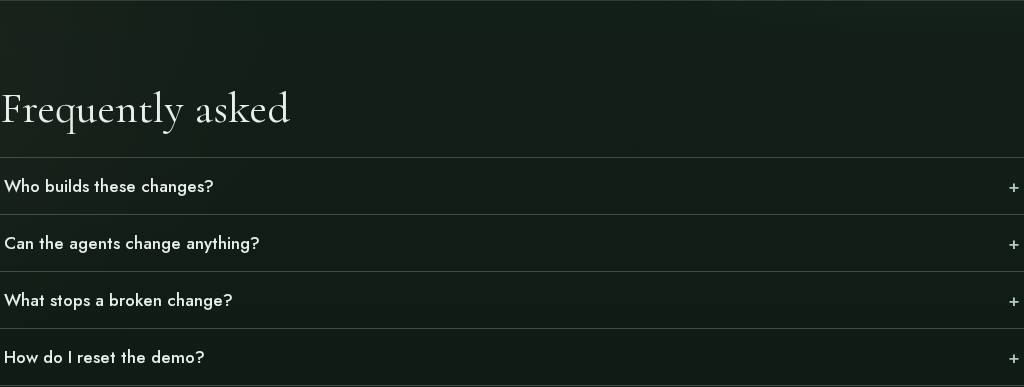
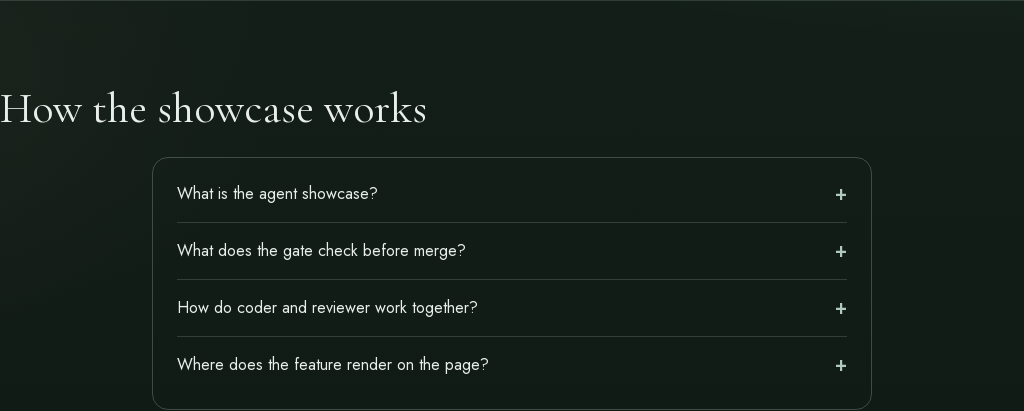
Refresh faq-accordion references from production; visual FAILs block (#314)
* Refresh faq-accordion chromium references from production with provenance; document that visual FAILs block

* Use role words instead of agent names in README and PR template

* Resolve README merge conflict: visual FAIL blocks, missing reference skipped; role words instead of agent names

* Remove stale visual references (no known-good capture yet; features skip the visual compare)

diff --git a/scripts/v2/check-feature.js b/scripts/v2/check-feature.js
@@ -1,5 +1,5 @@
 #!/usr/bin/env node
-// Showcase v2 feature check + visual gate (Rowan on the preview, Cedar on production).
+// Showcase v2 feature check + visual gate (the reviewer on the preview, QA on production).
 // usage: node check-feature.js <url> <slug> <who> <outdir> [--engine chromium|webkit] [--widths 1280,390] [--update-refs] [--threshold 0.01]
 // Needs only `playwright` (run from a folder where it is installed, or set NODE_PATH). Exit 0 = PASS.
 const path = require("path"), fs = require("fs");
@@ -105,7 +105,7 @@ if (args[0] === "--compare") { // node check-feature.js --compare a.png b.png : 
     ok(eb.h2, "feature has an <h2> heading");
     ok(eb.h2 && eb.text.length === 0, `no eyebrow above the heading${eb.text.length ? ` (found "${eb.text.join(" | ")}"; put any "Example data" note in a plain line under the content)` : ""}`);
     await spec.check({ page, sec, ok, w, engine, log, phase: "before-shot" });
-    if (spec.art) { // design-led: Hazel's artwork must load (or show its fallback) and fit; its pixels are masked from the diff
+    if (spec.art) { // design-led: the designer's artwork must load (or show its fallback) and fit; its pixels are masked from the diff
       const arts = sec.locator("[data-art]"), n = await arts.count(), sb = await sec.boundingBox();
       let img = 0, fb = 0, broken = 0, outside = 0;
       for (let k = 0; k < n; k++) {
@@ -136,7 +136,7 @@ if (args[0] === "--compare") { // node check-feature.js --compare a.png b.png : 
     const name = `${slug}-${engine}-${w}.png`;
     fs.mkdirSync(outdir, { recursive: true });
     // The saved screenshot is the real page (art visible). Only the pixel-diff copy masks the art; saving the masked copy made
-    // reports show a magenta square where Hazel's avatar really renders (Quote card, 10/13).
+    // reports show a magenta square where the designer's avatar really renders (Quote card, 10/13).
     fs.writeFileSync(path.join(outdir, name), spec.art ? await sec.screenshot({ animations: "disabled" }) : shot);
     const ref = path.join(REFS, name);
     if (spec.noRef) log(`visual: typed request, no reference to diff (one-off content; layout, errors and network checks still apply)`);

diff --git a/scripts/v2/gate.js b/scripts/v2/gate.js
@@ -43,7 +43,7 @@ out.files = files;
 // Messages: messages/en-US.json is the base locale (never changed by a run). The spanish-translation run adds exactly
 // messages/es-ES.json: flat JSON, string values only, exactly the same keys as en-US.json.
 const LOCALE_FILE = "messages/es-ES.json", BASE_LOCALE_FILE = "messages/en-US.json";
-const dir = `app/lab/${slug}/`, artDir = `public/lab/${slug}/`; // artDir: Hazel's artwork (SVG only, checked below)
+const dir = `app/lab/${slug}/`, artDir = `public/lab/${slug}/`; // artDir: the designer's artwork (SVG only, checked below)
 // Runs branch from origin/base (main with the lab slot empty), so a PR to main also deletes the previous feature.
 // Pure deletions of another menu feature's folder or artwork are allowed and don't count toward the size cap.
 const deleted = new Set(git("diff", "--name-only", "--diff-filter=D", range).split("\n").filter(Boolean));
@@ -58,7 +58,7 @@ for (const f of files) {
   if (keepFile(f)) { fail("allowlist", `the request said to keep the current section: ${f} was ${deleted.has(f) ? "deleted" : "changed"}`); continue; }
   if (f === "app/page.tsx" || f.startsWith(dir) || oldFeature(f)) continue;
   if (f === "app/lab/current.json") continue; // checked below
-  if (f === LOCALE_FILE && slug === "spanish-translation") continue; // Alder's es-ES messages, checked below
+  if (f === LOCALE_FILE && slug === "spanish-translation") continue; // the builder's es-ES messages, checked below
   { const sa = seededArt(f); if (sa === true || sa === "failed") continue; }
   if (!custom && f.startsWith(artDir) && /^[a-z0-9-]+\.svg$/.test(f.slice(artDir.length))) continue;
   fail("allowlist", `file outside allowlist: ${f}`);

diff --git a/scripts/v2/specs/spanish-translation.js b/scripts/v2/specs/spanish-translation.js
@@ -1,5 +1,5 @@
 // Spanish translation (scalable i18n). Base text lives in messages/en-US.json and every visible string is rendered with
-// data-i18n="<key>". Alder adds messages/es-ES.json (Spain Spanish, their own translation, same keys) and a segmented
+// data-i18n="<key>". The builder adds messages/es-ES.json (Spain Spanish, their own translation, same keys) and a segmented
 // English | Español switch. QA never compares against fixed Spanish copy: it reads both message files from this checkout.
 const fs = require("fs"), path = require("path");
 const MSG = path.join(__dirname, "..", "..", "..", "messages");

diff --git a/scripts/v2/specs/testimonial-card.js b/scripts/v2/specs/testimonial-card.js
@@ -1,6 +1,6 @@
 // Quote card: quote+name+role, rotates every 3s, pauses on hover; dots are buttons that jump to a quote and restart the timer.
 module.exports = {
-  art: 1, // design-led (Hazel): artwork slots, masked from the pixel diff
+  art: 1, // design-led (the designer): artwork slots, masked from the pixel diff
   async beforeShot({ sec }) { await sec.hover(); },
   async check({ sec, ok }) {
     ok(await sec.locator("blockquote").isVisible(), "quote visible");

diff --git a/scripts/v2/specs/pricing-table.js b/scripts/v2/specs/pricing-table.js
@@ -1,6 +1,6 @@
 // Pricing table: 3 tiers, middle highlighted, stacks on mobile, no sideways scroll.
 module.exports = {
-  art: 1, // design-led (Hazel): artwork slots, masked from the pixel diff
+  art: 1, // design-led (the designer): artwork slots, masked from the pixel diff
   async check({ sec, ok, w }) {
     const t = sec.locator(":scope > ul > li");
     ok((await t.count()) === 3, `3 tiers (${await t.count()})`);

diff --git a/scripts/v2/specs/feature-grid.js b/scripts/v2/specs/feature-grid.js
@@ -1,6 +1,6 @@
 // Feature grid: 6 cards with inline SVG icons in 3/2/1 columns.
 module.exports = {
-  art: 6, // design-led (Hazel): artwork slots, masked from the pixel diff
+  art: 6, // design-led (the designer): artwork slots, masked from the pixel diff
   async check({ sec, ok, w }) {
     const c = sec.locator("ul > li");
     ok((await c.count()) === 6, `6 cards (${await c.count()})`);

diff --git a/README.md b/README.md
@@ -7,15 +7,12 @@ A small Next.js page ("Hello, <World> World!" plus a world image) that a team of
 1. **Trigger.** A visitor presses **Trigger a demo** on the AshtonBach live viewer. The viewer allows one run at a time (a run lock) and a daily cap on runs. A run picks a "world" (Vercel, Next.js, TypeScript, Cursor, GitHub and others) that isn't already in production.
 2. **Live viewer (Cloudflare).** A Cloudflare Worker with a Durable Object holds the run state, the step history and the live screen streams, so viewers can watch each agent's screen while it works.
 3. **Four cloud agents (Cursor).** Each run launches four Cursor cloud agents:
-   - **Hazel (AI designer)** generates a new world image and pushes it to the run branch.
-   - **Alder (AI coder)** changes the heading in `app/page.tsx`, confirms `next build` passes and pushes.
-   - **Rowan (AI reviewer)** reviews the Vercel preview with browser checks (heading text, image, image size and layout on desktop and mobile).
-   - **Cedar (AI QA)** runs the same checks on production after the merge and signs off.
-   Ash (AI coordinator) opens the pull request and coordinates the run.
+   - **The designer (AI designer)** generates a new world image and pushes it to the run branch.
+   - **The builder (AI coder)** changes the heading in `app/page.tsx`, confirms `next build` passes and pushes.
+   - **The reviewer (AI reviewer)** reviews the Vercel preview with browser checks (heading text, image, image size and layout on desktop and mobile).
+   - **QA (AI QA)** runs the same checks on production after the merge and signs off.
+   The coordinator (AI coordinator) opens the pull request and coordinates the run.
 4. **Vercel preview and production.** Every pull request gets a Vercel preview deployment. Merging to `main` deploys production.
-<<<<<<< HEAD
-5. **Review gate.** Nothing merges unless Rowan's review checks pass on the preview. If they pass, the merge is done on their behalf through the `ashtonbach-coder` GitHub account (the AI coder account). If they fail, nothing merges and the run is recorded as "Didn't ship".
-=======
 5. **Merge gates (required checks).** Nothing merges unless all required checks pass:
    - **Allowlist**: Only approved file paths may change (`app/lab/<slug>/`, `app/page.tsx` import/render lines, `app/lab/current.json`, and artwork in `public/lab/<slug>/`)
    - **Size cap**: Code changes limited to 150 lines (excluding artwork)
@@ -23,10 +20,10 @@ A small Next.js page ("Hello, <World> World!" plus a world image) that a team of
    - **Build**: `npm run build` must succeed
    - **Functional**: Feature must render correctly, pass all functional checks from its spec, and show no console errors
    - **Copy coverage**: For spanish-translation, at least 90% of keys must be translated (non-identical to English)
+   - **Visual check**: `check-feature.js` on the Vercel preview compares each width against its reference in `scripts/v2/refs/`. A pixel diff over 1% or a size mismatch is a FAIL and blocks the merge; a feature with no reference yet is skipped, not failed
    - **Reviewer approval**: Review checks pass on the Vercel preview
    
-   These checks are enforced as required GitHub status checks. Any FAIL blocks the merge. If all pass, the merge is done on behalf of the reviewer through the `ashtonbach-coder` GitHub account (the AI coder account). Visual diff against reference screenshots is advisory (informational only) since references may be outdated.
->>>>>>> c75ec59 (Add merge gate CI workflows and enforcement)
+   These checks are enforced as required GitHub status checks. Any FAIL blocks the merge. If all pass, the merge is done on behalf of the reviewer through the `ashtonbach-coder` GitHub account (the AI coder account).
 
 ## Human oversight
 
@@ -34,7 +31,7 @@ A human designed this system and oversees it. They set the rules the agents foll
 
 ## AI disclosure
 
-All named contributors (Ash, Alder, Hazel, Rowan, Cedar) are AI agents. Commits and merges are made through the `ashtonbach-coder` GitHub account (the AI coder account). A human designed the system and oversees it.
+All named contributors (the coordinator, the builder, the designer, the reviewer and QA) are AI agents. Commits and merges are made through the `ashtonbach-coder` GitHub account (the AI coder account). A human designed the system and oversees it.
 
 ## Local development
 

diff --git a/scripts/v2/README.md b/scripts/v2/README.md
@@ -2,8 +2,8 @@
 
 | Script | Who runs it | What it does |
 |---|---|---|
-| `gate.js <slug> [base] [head]` | Rowan (preview) and the automerge on the box | Allowlist (`app/lab/<slug>/**`, the two `app/page.tsx` lines, and `app/lab/current.json` = `{"slug":"<slug>"}` for the demo-name H1), no package.json/lockfile change, banned calls/imports, diff of 150 lines or fewer. Last line `GATE {json}`. |
-| `check-feature.js <url> <slug> <who> <outdir> [--engine chromium\|webkit]` | Rowan (preview), Cedar (production) | Per-feature spec from `specs/<slug>.js` at 1280 and 390, zero console errors, no sideways scroll, no off-site requests, and a pixel diff of the feature against `refs/<slug>-<engine>-<width>.png` (max 1% of pixels). Last line `VISUAL {json}`. |
+| `gate.js <slug> [base] [head]` | The reviewer (preview) and the automerge on the box | Allowlist (`app/lab/<slug>/**`, the two `app/page.tsx` lines, and `app/lab/current.json` = `{"slug":"<slug>"}` for the demo-name H1), no package.json/lockfile change, banned calls/imports, diff of 150 lines or fewer. Last line `GATE {json}`. |
+| `check-feature.js <url> <slug> <who> <outdir> [--engine chromium\|webkit]` | The reviewer (preview), QA (production) | Per-feature spec from `specs/<slug>.js` at 1280 and 390, zero console errors, no sideways scroll, no off-site requests, and a pixel diff of the feature against `refs/<slug>-<engine>-<width>.png` (max 1% of pixels). Last line `VISUAL {json}`. |
 | `reset.sh [--apply\|--base [--push]\|--pr]` | `--base --push`: prep before every run and the nightly workflow. `--pr`: explicit admin reset only (`RESET_MAIN=yes`) | Removes every feature folder in `app/lab/` and the two `app/page.tsx` lines. Dry run by default. `--base` writes the result to the `base` branch, never to main. |
 
 ## Page text: messages/
@@ -19,9 +19,10 @@ current `scripts/v2`). Each run branches from `origin/base`, its PR targets main
 the PR to delete the previous feature's folder and swap the Lab import. Production changes only when that PR merges.
 The base page heading is the single constant in `app/base-heading.ts`.
 
-Alder writes each feature from a spec; there is no prepared reference code. `refs/` holds older screenshots:
-the pixel diff against them is informational and never blocks a merge (the merge gate is allowlist, size, banned calls, build
-and the functional checks in `specs/`). Regenerate references only with a human's approval:
+The builder writes each feature from a spec; there is no prepared reference code. `refs/` holds known-good screenshots
+(each with a `<ref>.png.json` sidecar recording the build URL and time it came from). A visual FAIL (pixel diff over the
+threshold or a size mismatch against a reference) blocks a merge, like the allowlist, size, banned calls, build and the
+functional checks in `specs/`. A missing reference is skipped, not a failure. Regenerate references only with a human's approval:
 `node check-feature.js <url> <slug> Refs /tmp --engine chromium --update-refs` (and `--engine webkit`).
 
 ## Feature content: real numbers only
@@ -29,4 +30,4 @@ Every number a feature shows (stats, counters, prices, dates, counts) must be re
 exactly what it counts and, if it changes over time, when it was counted (e.g. "Runs shipped by Oct 11").
 Put the source in a code comment next to the value. If a number can't be verified, label it on the page as example data
 in a plain sentence-case line under the content (e.g. "Example data: ..."), never present it as fact. No eyebrow:
-nothing may sit above a feature's <h2> (no small caps kicker); `check-feature.js` fails the build if it does. Features and reviews follow this rule; Rowan rejects a PR that breaks it.
+nothing may sit above a feature's <h2> (no small caps kicker); `check-feature.js` fails the build if it does. Features and reviews follow this rule; the reviewer rejects a PR that breaks it.

diff --git a/MERGE_GATES.md b/MERGE_GATES.md
@@ -28,14 +28,10 @@ All pull requests to `main` must pass these required checks before merge:
 5. **Reviewer approval**
    - Manual approval by reviewer after checking Vercel preview
 
-## Advisory Checks (Informational)
-
-These checks provide information but do NOT block merge:
-
-- **Visual diff**: Pixel comparison against reference screenshots
-  - References may be outdated
-  - Used to detect unintended visual changes
-  - Max 1% pixel difference is informational only
+6. **Visual check** - `check-feature.js` on the Vercel preview
+   - Compares each width against its reference in `scripts/v2/refs/` (with a `<ref>.png.json` provenance sidecar)
+   - A pixel diff over 1% or a size mismatch is a FAIL and blocks merge
+   - A feature with no reference yet is skipped, not failed
 
 ## GitHub Repository Configuration
 
@@ -76,11 +72,11 @@ This verifies that gate violations are correctly detected and would block merge 
 
 ## PR Body Template
 
-The PR template at `.github/pull_request_template.md` includes a "Merge gate status" section that lists all required and advisory checks. Update this section as checks run:
+The PR template at `.github/pull_request_template.md` includes a "Merge gate status" section that lists all required checks. Update this section as checks run:
 
 - Required checks must show PASS before merge
 - A FAIL in any required check blocks merge
-- Advisory checks are clearly labeled as informational
+- A missing visual reference shows as SKIPPED, not FAIL
 
 ## Historical Context
 

diff --git a/.github/pull_request_template.md b/.github/pull_request_template.md
@@ -8,11 +8,11 @@
   1.
 - **What changed:**
 
-Coordinator: Ash (AI coordinator)
-Code: Alder (AI coder)
-Review: Rowan (AI reviewer)
-QA: Cedar (AI QA)
-Merged by: <actual merger, e.g. Rowan (AI reviewer)>
+Coordinator: the coordinator (AI coordinator)
+Code: the builder (AI coder)
+Review: the reviewer (AI reviewer)
+QA: QA (AI QA)
+Merged by: <actual merger, e.g. the reviewer (AI reviewer)>
 
 ## What changed
 
@@ -25,12 +25,10 @@ Merged by: <actual merger, e.g. Rowan (AI reviewer)>
 - Build: PENDING
 - Functional: PENDING
 - Copy coverage (>=90% for spanish-translation): PENDING / N/A
+- Visual check (pixel diff and size vs reference; no reference = SKIPPED): PENDING
 - Reviewer approval: PENDING
 
-**Advisory checks** (informational only):
-- Visual diff: informational (ref screenshots may be outdated)
-
-_Note: All required checks must show PASS before merge. A FAIL in any required check blocks merge. Advisory checks provide information but do not block merge._
+_Note: All required checks must show PASS before merge. A FAIL in any required check blocks merge. A visual FAIL (pixel diff over 1% or a size mismatch) blocks merge; a missing reference is skipped._
 
 ## How it was checked
 
